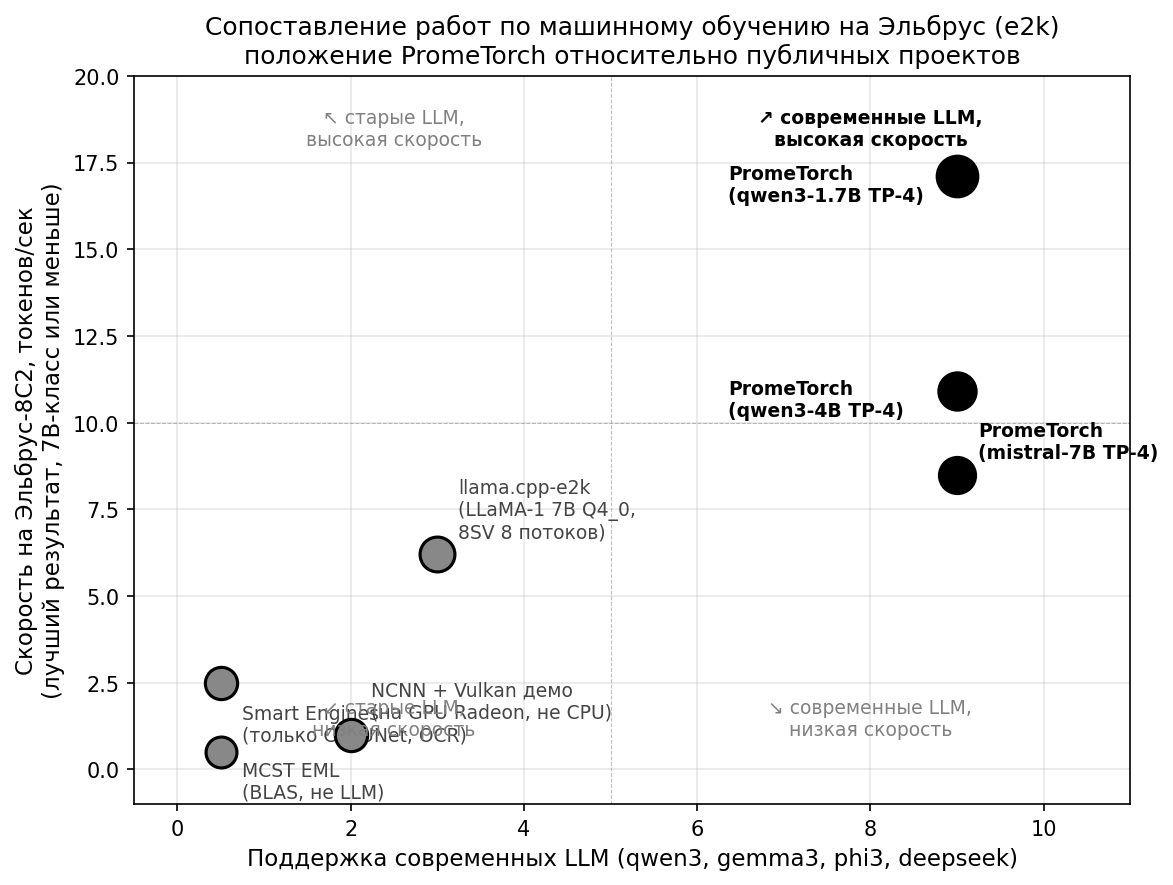
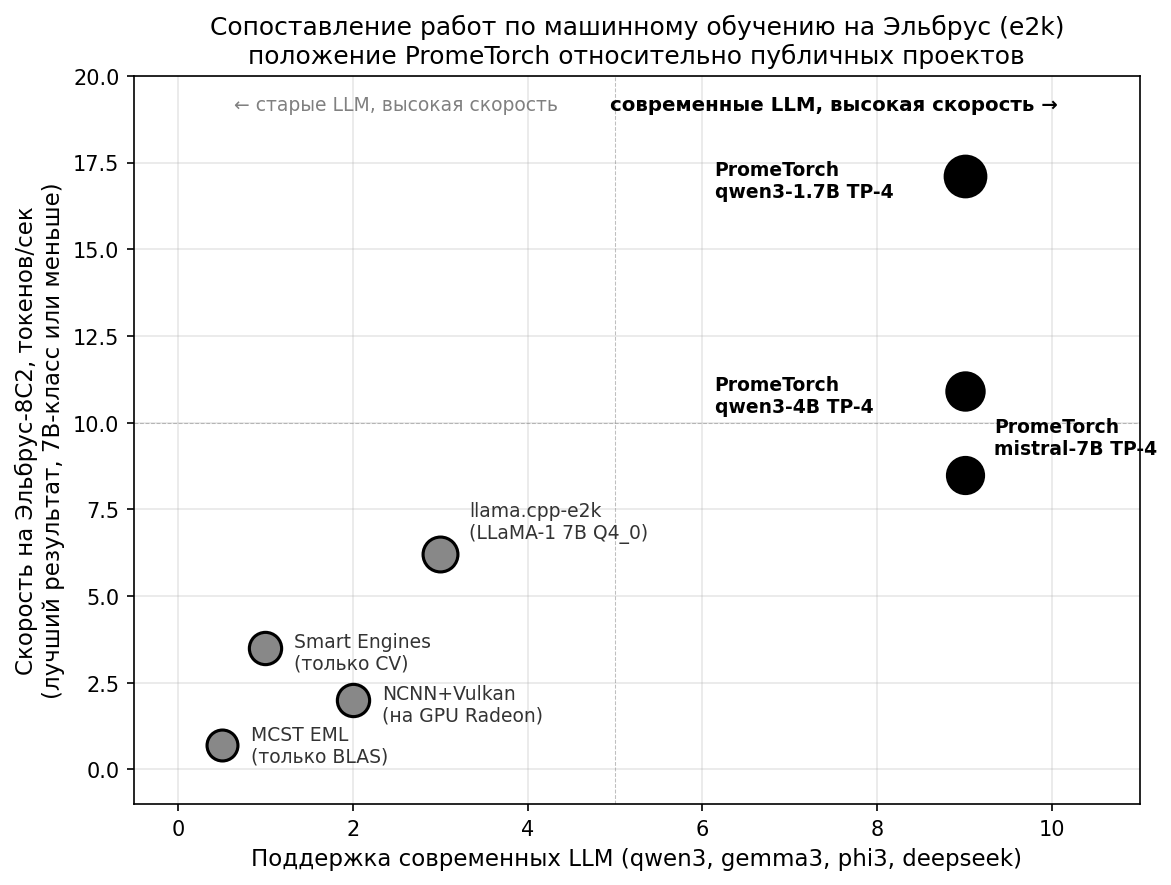
docs(article): fix quadrant chart — labels no longer overlap
Бывшие перекрытия (Smart Engines / NCNN / MCST EML на y=0..1) разнесены:
* MCST EML  (0.5, 0.7)
* Smart Engines (1.0, 3.5)
* NCNN+Vulkan (2.0, 2.0)
* llama.cpp-e2k (3.0, 6.2)
* PromeTorch qwen3-1.7B/4B/mistral-7B (9.0, 17.1/10.9/8.5)

Quadrant подсказки оставлены только сверху (старые/современные LLM)
чтобы не сталкиваться с data points.

diff --git a/docs/elbrus_report/make_diagrams.py b/docs/elbrus_report/make_diagrams.py
@@ -20,30 +20,22 @@ plt.rcParams['font.size'] = 10
 fig, ax = plt.subplots(figsize=(8, 6))
 
 # Точки: (x=поддержка современных LLM 0..10, y=скорость на ELBRUS-8C2 в tok/s)
-# Размещаем по диагонали чтобы лейблы не перекрывались
-# y = реальная скорость в tok/s (или 0 если не LLM)
+# Размещаем без перекрытий: lookups правее точек, далеко от quadrant подсказок
 projects = [
     # name, x, y, size, color, label_dx, label_dy
-    ("llama.cpp-e2k\n(LLaMA-1 7B Q4_0,\n8SV 8 потоков)",
-                                     3.0, 6.2,  280, "#888888",  10,   8),
-    ("Smart Engines\n(только CV: UNet, OCR)",
-                                     0.5, 2.5,  240, "#888888",  10, -28),
-    ("NCNN + Vulkan демо\n(на GPU Radeon, не CPU)",
-                                     2.0, 1.0,  240, "#888888",  10,   8),
-    ("MCST EML\n(BLAS, не LLM)",
-                                     0.5, 0.5,  220, "#888888",  10, -22),
-    ("PromeTorch\n(qwen3-1.7B TP-4)",
-                                     9.0, 17.1, 380, "#000000", -110,  -12),
-    ("PromeTorch\n(qwen3-4B TP-4)",
-                                     9.0, 10.9, 320, "#000000", -110,  -12),
-    ("PromeTorch\n(mistral-7B TP-4)",
-                                     9.0, 8.5,  300, "#000000",  10,    8),
+    ("llama.cpp-e2k\n(LLaMA-1 7B Q4_0)",       3.0,  6.2, 280, "#888888",  14,    8),
+    ("Smart Engines\n(только CV)",             1.0,  3.5, 240, "#888888",  14,  -10),
+    ("NCNN+Vulkan\n(на GPU Radeon)",           2.0,  2.0, 240, "#888888",  14,  -10),
+    ("MCST EML\n(только BLAS)",                0.5,  0.7, 220, "#888888",  14,   -8),
+    ("PromeTorch\nqwen3-1.7B TP-4",            9.0, 17.1, 380, "#000000", -120,  -10),
+    ("PromeTorch\nqwen3-4B TP-4",              9.0, 10.9, 320, "#000000", -120,  -10),
+    ("PromeTorch\nmistral-7B TP-4",            9.0,  8.5, 300, "#000000",  14,   10),
 ]
 for name, x, y, s, c, dx, dy in projects:
     ax.scatter(x, y, s=s, c=c, zorder=3, edgecolors='black', linewidths=1.5)
     ax.annotate(name, (x, y), xytext=(dx, dy), textcoords="offset points",
                 fontsize=9, fontweight='bold' if 'PromeTorch' in name else 'normal',
-                color='black' if 'PromeTorch' in name else '#444')
+                color='black' if 'PromeTorch' in name else '#333')
 
 ax.set_xlim(-0.5, 11)
 ax.set_ylim(-1, 20)
@@ -54,11 +46,9 @@ ax.grid(True, alpha=0.3, zorder=0)
 ax.axhline(y=10, color='gray', linewidth=0.5, linestyle='--', alpha=0.5)
 ax.axvline(x=5, color='gray', linewidth=0.5, linestyle='--', alpha=0.5)
 
-# Quadrant labels
-ax.text(2.5, 18, "↖ старые LLM,\nвысокая скорость", fontsize=9, color='gray', ha='center')
-ax.text(8, 18, "↗ современные LLM,\nвысокая скорость", fontsize=9, color='black', ha='center', fontweight='bold')
-ax.text(2.5, 1, "↙ старые LLM,\nнизкая скорость", fontsize=9, color='gray', ha='center')
-ax.text(8, 1, "↘ современные LLM,\nнизкая скорость", fontsize=9, color='gray', ha='center')
+# Quadrant labels — только верхние, чтобы не перекрывались с data points
+ax.text(2.5, 19, "← старые LLM, высокая скорость", fontsize=9, color='gray', ha='center')
+ax.text(7.5, 19, "современные LLM, высокая скорость →", fontsize=9.5, color='black', ha='center', fontweight='bold')
 
 plt.tight_layout()
 plt.savefig(f"{OUT}/fig1_quadrant.png", dpi=150, bbox_inches='tight')